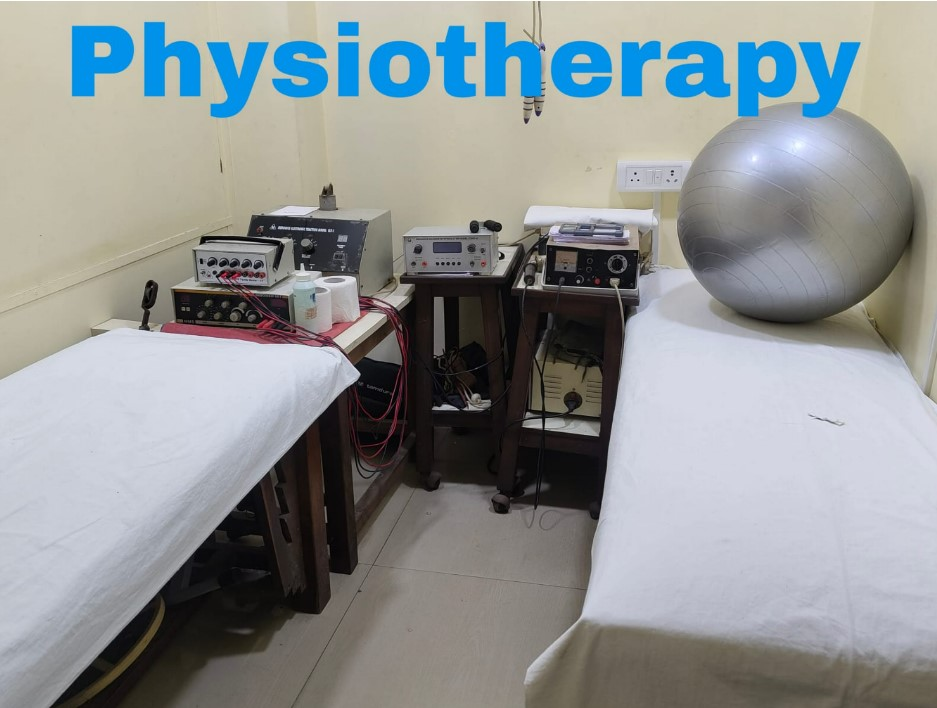
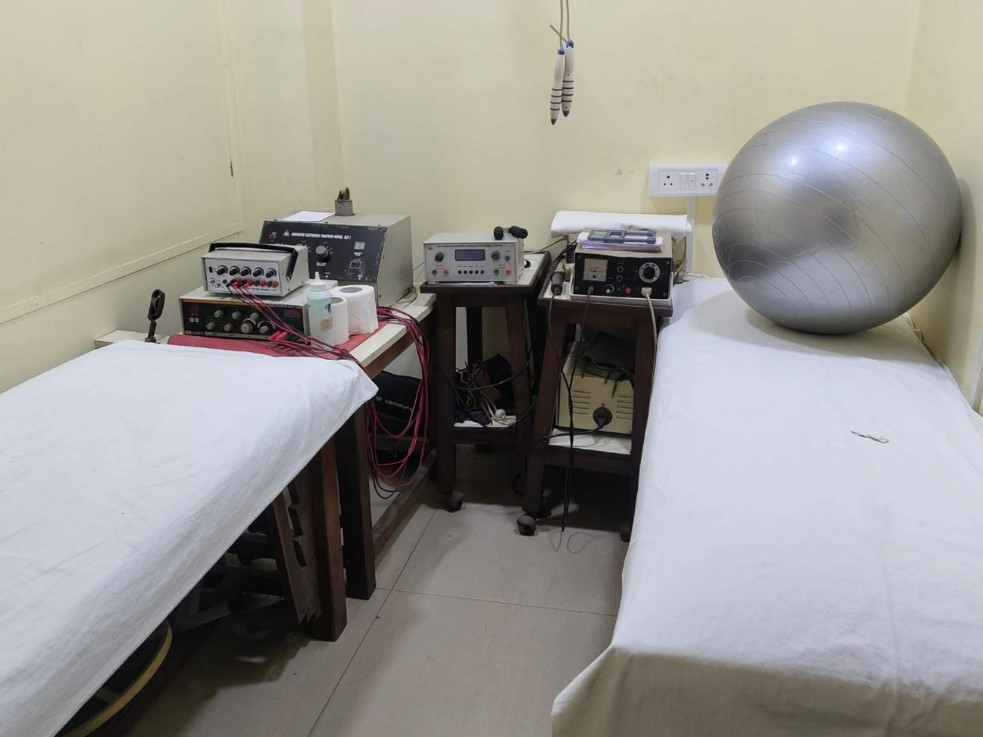
Standardized nursing home contact details and refined clinic pages

diff --git a/lib/doctors.ts b/lib/doctors.ts
@@ -94,6 +94,9 @@ export const MEDICARE_DOCTORS: DoctorProfile[] = [
       "Fellowship in Revision Joint Replacement, Germany",
     ],
     registration: "MCI 26508 | WBMC 77553",
+    photoSrc: "/clinic/dr-rajesh-kushwaha.png",
+    photoAlt: "Dr. Rajesh Kushwaha",
+    photoObjectPosition: "50% 38%",
     timing: "Monday to Saturday · 11:00 AM – 1:00 PM",
   },
   {
@@ -111,6 +114,9 @@ export const MEDICARE_DOCTORS: DoctorProfile[] = [
     specialities: ["Cardiologist & Physician"],
     filterTags: ["cardiology", "general-medicine"],
     qualifications: "MD",
+    photoSrc: "/clinic/dr-b-b-shukla.png",
+    photoAlt: "Dr. B. B. Shukla",
+    photoObjectPosition: "50% 40%",
     chamber: "Medicare Clinic, opposite Howrah Jute Mill",
     timing: "Monday to Saturday · 10:00 AM – 11:00 AM",
   },

diff --git a/app/facilities/page.tsx b/app/facilities/page.tsx
@@ -260,8 +260,8 @@ export default function FacilitiesPage() {
           media={
             <FacilityImage
               src="/clinic/physiotherapy-room.png"
-              alt="Medicare physiotherapy treatment room with electrotherapy equipment"
-              objectPosition="center 70%"
+              alt="Medicare physiotherapy treatment room with electrotherapy equipment and treatment beds"
+              objectPosition="center"
             />
           }
         >

diff --git a/lib/data.ts b/lib/data.ts
@@ -21,8 +21,7 @@ export const CLINIC = {
   contact: {
     helpline: "9331076661",
     diagnosticOpd: "033-40073713",
-    nursingHome:
-      "033-2638-1777 / 033-2638-1778 / 033-2638-1788 / 033-2638-9237",
+    nursingHome: "033-2638-1777 / 1778 / 1788 / 9237",
     nursingHomeTel: "03326381777",
     email: "[email redacted]",
   },